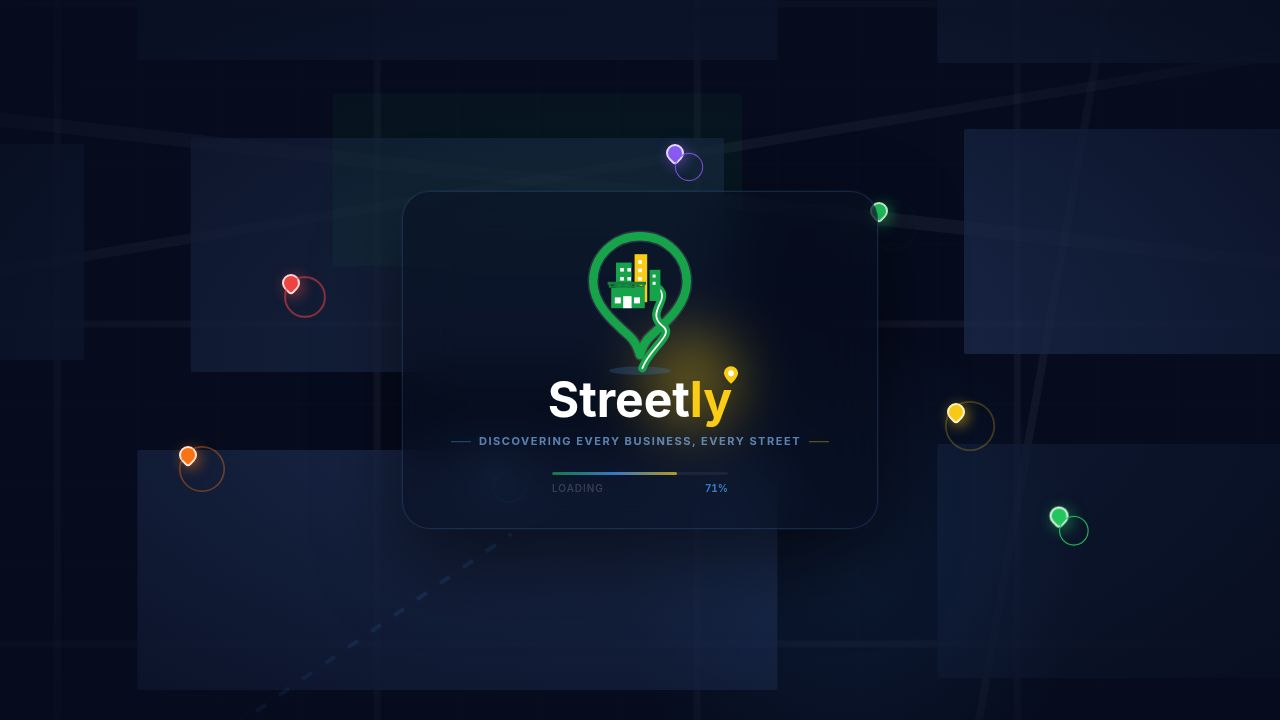
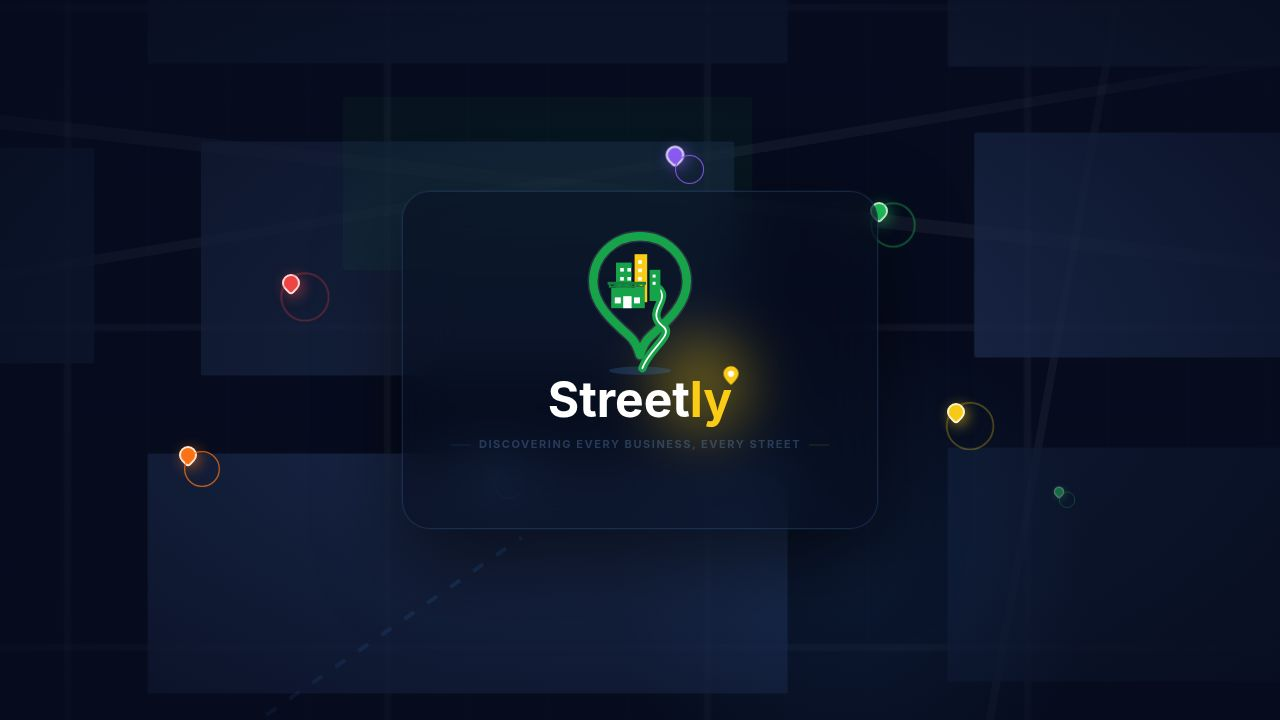
Fix dashboard loading errors by adjusting data fetching logic
Adjust hook execution order in ScoutManager, Moderator, and Regional Manager dashboard pages to prevent React hook order violations and ensure proper data fetching.

Replit-Commit-Author: Agent
Replit-Commit-Session-Id: a94d00cd-eeab-402d-af46-8c8fbab64aeb
Replit-Commit-Checkpoint-Type: full_checkpoint
Replit-Commit-Event-Id: b913a4de-4f12-418c-892a-bc098ec65418
Replit-Commit-Screenshot-Url: https://storage.googleapis.com/screenshot-production-us-central1/236f4c24-861d-4f53-8e8e-1fcdf9b2f034/a94d00cd-eeab-402d-af46-8c8fbab64aeb/rOUYp7t
Replit-Helium-Checkpoint-Created: true

diff --git a/artifacts/streetly/src/pages/ModeratorDashboardPage.tsx b/artifacts/streetly/src/pages/ModeratorDashboardPage.tsx
@@ -333,6 +333,11 @@ export default function ModeratorDashboardPage() {
     );
   }
 
+  const { data: pendingBizList = [] } = usePendingBusinesses();
+  const { data: allTickets = [] } = useListAllSupportTickets();
+  const pendingCount = Array.isArray(pendingBizList) ? pendingBizList.length : 0;
+  const openTicketsCount = Array.isArray(allTickets) ? allTickets.filter((t: any) => t.status === "open").length : 0;
+
   if (!token) {
     return (
       <AdminLoginGate
@@ -347,11 +352,6 @@ export default function ModeratorDashboardPage() {
     localStorage.removeItem("streetly_token");
     setToken(null);
   };
-
-  const { data: pendingBizList = [] } = usePendingBusinesses();
-  const { data: allTickets = [] } = useListAllSupportTickets();
-  const pendingCount = (pendingBizList as any[]).length;
-  const openTicketsCount = (allTickets as any[]).filter((t: any) => t.status === "open").length;
 
   return (
     <div className="min-h-screen flex" style={{ background: "linear-gradient(135deg, #060c1a 0%, #0a1428 50%, #060c1a 100%)" }}>

diff --git a/artifacts/streetly/src/pages/ScoutManagerDashboardPage.tsx b/artifacts/streetly/src/pages/ScoutManagerDashboardPage.tsx
@@ -377,6 +377,11 @@ export default function ScoutManagerDashboardPage() {
       .finally(() => setChecking(false));
   }, []);
 
+  const { data: agentList = [] } = useAllAgents();
+  const { data: propertyList = [] } = useAllProperties();
+  const pendingAgentsCount = Array.isArray(agentList) ? agentList.filter((a: any) => a.status === "pending").length : 0;
+  const pendingPropertiesCount = Array.isArray(propertyList) ? propertyList.filter((p: any) => p.status === "pending").length : 0;
+
   if (checking) {
     return (
       <div className="min-h-screen flex items-center justify-center"
@@ -400,11 +405,6 @@ export default function ScoutManagerDashboardPage() {
     localStorage.removeItem("streetly_token");
     setToken(null);
   };
-
-  const { data: agentList = [] } = useAllAgents();
-  const { data: propertyList = [] } = useAllProperties();
-  const pendingAgentsCount = (agentList as any[]).filter((a: any) => a.status === "pending").length;
-  const pendingPropertiesCount = (propertyList as any[]).filter((p: any) => p.status === "pending").length;
 
   return (
     <div className="min-h-screen flex" style={{ background: "linear-gradient(135deg, #060c1a 0%, #0a1428 50%, #060c1a 100%)" }}>

diff --git a/artifacts/streetly/src/pages/RegionalManagerDashboardPage.tsx b/artifacts/streetly/src/pages/RegionalManagerDashboardPage.tsx
@@ -290,6 +290,8 @@ export default function RegionalManagerDashboardPage() {
     );
   }
 
+  const { data: agents = [], isLoading } = useMyAgents();
+
   if (!token) {
     return (
       <AdminLoginGate
@@ -304,8 +306,6 @@ export default function RegionalManagerDashboardPage() {
     localStorage.removeItem("streetly_token");
     setToken(null);
   };
-
-  const { data: agents = [], isLoading } = useMyAgents();
   const activeLabel = selectedAgent ? (selectedAgent.fullName ?? selectedAgent.userName ?? `Agent #${selectedAgent.id}`) : "My Agents";
 
   return (